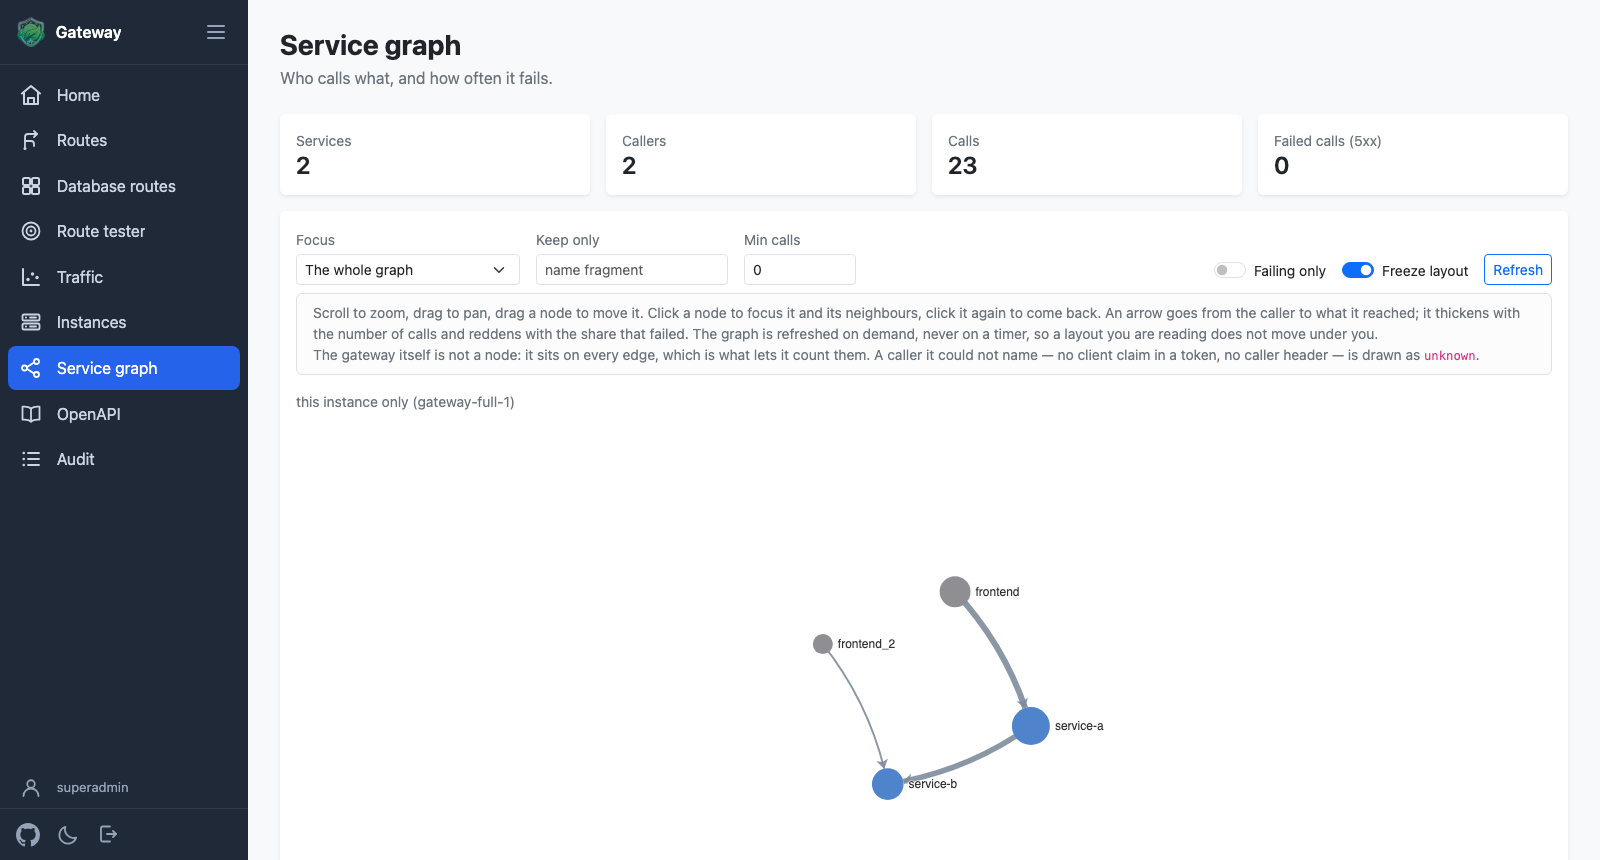
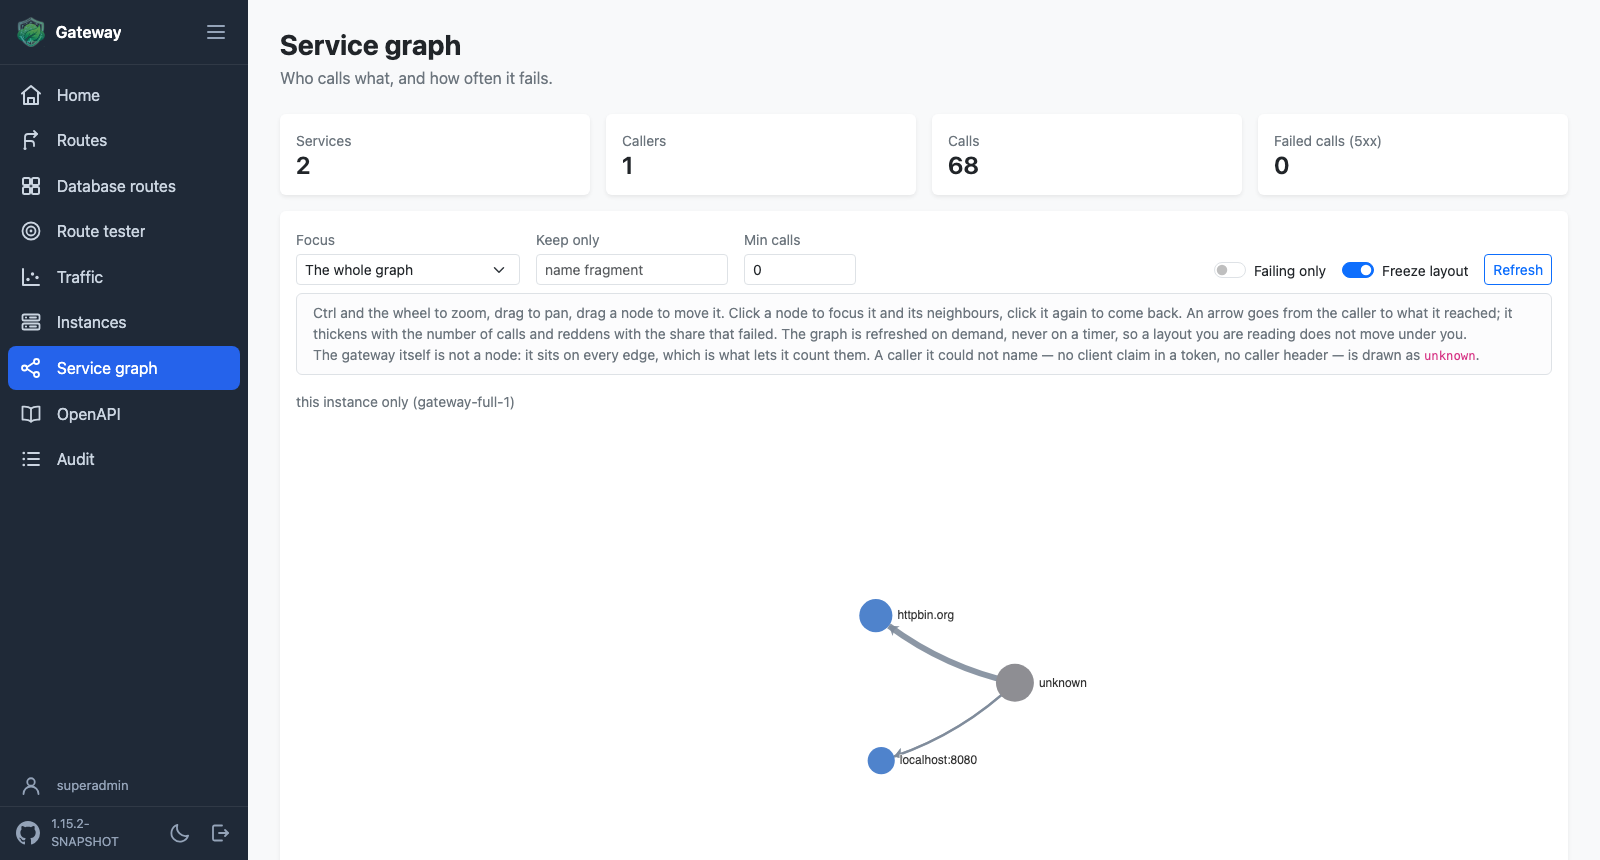
fix(ui): zoom the map and the graph on ctrl + wheel, not on the wheel alone
Both pictures are more than half a screen tall, so they sit under the cursor
for most of the page, and a wheel that zoomed them left the reader with a
page that would not scroll.

Binding the zoom to a modifier is not enough, and the option that reads like
it would does not do it: the roam controller of echarts calls preventDefault
as soon as the pointer is inside the coordinate system, before anything looks
at which modifier the zoom was bound to, so the wheel stayed swallowed and
merely stopped zooming. What takes the wheel out of its hands is the control
type — 'zoomLock' on the inside zoom of the traffic map, 'move' as the roam
of the service graph — under which no wheel handler is registered at all and
the drag that pans is kept. The zoom is dispatched from a wheel listener of
our own, anchored on the cursor for the map.

The legends, the reading guide of the graph and the READMEs say which key it
takes, and the screenshots of both views are re-captured.

diff --git a/spring-cloud-gateway-ui/src/main/resources/static/js/gateway-metrics.js b/spring-cloud-gateway-ui/src/main/resources/static/js/gateway-metrics.js
@@ -126,6 +126,7 @@
 	var bars = echarts.init(barsEl, theme);
 	var rows = [];
 	var drawn = [];
+	var extents = null;
 	var sortKey = 'count';
 	var sortDir = -1;
 	var pollTimer = null;
@@ -445,7 +446,7 @@
 
 		sel('gm-legend').textContent = 'Bubble size = ' + LABELS[sk]
 			+ ' · colour = error rate (green none, amber some, red heavy) · hover a bubble for '
-			+ 'details · scroll to zoom, drag to pan.' + scope();
+			+ 'details · ctrl + scroll to zoom, drag to pan.' + scope();
 
 		var xs = drawn.map(function (row) {
 			return value(row, xk);
@@ -459,6 +460,9 @@
 		var py = plot(ys, yLog);
 		var xb = bounds(px, xLog);
 		var yb = bounds(py, yLog);
+		// The wheel zooms around the cursor, which it can only place in a window once it
+		// knows what the axis spans.
+		extents = { x: xb, y: yb };
 		var guide = guides(px, py, xb, yb, config.quadrants);
 		var labelled = named(ranking());
 		var xAxis = axis(xk, xLog, xb);
@@ -473,12 +477,19 @@
 			grid: { left: 70, right: 58, top: 24, bottom: 78 },
 			xAxis: xAxis,
 			yAxis: axis(yk, yLog, yb),
-			// Wheel on the plot and a slider per axis: a corner of the cloud is read by
+			// Drag on the plot and a slider per axis: a corner of the cloud is read by
 			// zooming into it. 'none' keeps the points outside the window in the series,
 			// so the median cross and the quadrants stay where they were computed.
+			//
+			// 'zoomLock' is what takes the wheel out of the hands of echarts, and it is
+			// the only thing that does: bound to a modifier or not, its inside zoom
+			// consumes every wheel it is registered for before looking at the modifier,
+			// and a plot this tall would then trap the scroll of the page it sits in.
+			// Locked, the controller only registers the drag that pans; the wheel is read
+			// below instead.
 			dataZoom: [
-				{ type: 'inside', xAxisIndex: 0, filterMode: 'none' },
-				{ type: 'inside', yAxisIndex: 0, filterMode: 'none' },
+				{ type: 'inside', xAxisIndex: 0, filterMode: 'none', zoomLock: true },
+				{ type: 'inside', yAxisIndex: 0, filterMode: 'none', zoomLock: true },
 				{ type: 'slider', xAxisIndex: 0, filterMode: 'none', bottom: 10, height: 18 },
 				{
 					type: 'slider', yAxisIndex: 0, filterMode: 'none', right: 10, width: 18,
@@ -578,6 +589,37 @@
 
 	// The ranking the map cannot draw: the routes that carry the most of whatever the
 	// question is about, biggest first, with what the twenty of them add up to.
+	// Where the cursor sits on an axis, as the percentage a zoom window is expressed in.
+	function percent(value, extent) {
+		return 100 * (value - extent.min) / (extent.max - extent.min);
+	}
+
+	// The window a wheel notch leaves behind: the span scaled, anchored on the cursor so
+	// the bubble under it stays under it, and kept inside the axis.
+	function windowed(zoom, anchor, ratio, index) {
+		var span = Math.min(100, (zoom.end - zoom.start) * ratio);
+		var start = Math.max(0, Math.min(100 - span, anchor - (anchor - zoom.start) * ratio));
+		return { type: 'dataZoom', dataZoomIndex: index, start: start, end: start + span };
+	}
+
+	// Ctrl + wheel zooms the map; a wheel alone is left to the page it sits in. Ctrl is
+	// also what a browser zooms its own page with, hence the preventDefault.
+	function zoomOnCtrlWheel(event) {
+		if (!event.ctrlKey || !extents || !drawn.length) {
+			return;
+		}
+		event.preventDefault();
+		var box = chartEl.getBoundingClientRect();
+		var at = chart.convertFromPixel({ gridIndex: 0 }, [event.clientX - box.left, event.clientY - box.top]);
+		if (!at) {
+			return;
+		}
+		var ratio = event.deltaY < 0 ? 1 / 1.25 : 1.25;
+		var zooms = chart.getOption().dataZoom;
+		chart.dispatchAction(windowed(zooms[0], percent(at[0], extents.x), ratio, 0));
+		chart.dispatchAction(windowed(zooms[1], percent(at[1], extents.y), ratio, 1));
+	}
+
 	function renderBars() {
 		var rank = ranking();
 		var scored = drawn.map(function (row) {
@@ -707,6 +749,8 @@
 	['gm-preset', 'gm-x', 'gm-y', 'gm-size', 'gm-top', 'gm-scale'].forEach(function (id) {
 		sel(id).addEventListener('change', render);
 	});
+	// Not passive: a ctrl + wheel that zooms the map must not also zoom the browser.
+	chartEl.addEventListener('wheel', zoomOnCtrlWheel, { passive: false });
 	// On input rather than on change: the plot follows what is being typed.
 	sel('gm-filter').addEventListener('input', render);
 	// A render replaces the option rather than merging into it, which is what puts the axes

diff --git a/spring-cloud-gateway-ui/src/main/resources/static/js/gateway-service-graph.js b/spring-cloud-gateway-ui/src/main/resources/static/js/gateway-service-graph.js
@@ -133,8 +133,12 @@
 			},
 			series: [{
 				type: 'graph',
-				// Scroll to zoom, drag to pan. Nodes stay draggable either way.
-				roam: true,
+				// Drag to pan, ctrl and the wheel to zoom; nodes stay draggable either way.
+				// 'move' rather than true is what leaves the wheel to the page: a roam that
+				// zooms registers a wheel handler consuming every notch it is given, and a
+				// picture this tall would then trap the scroll of the page it sits in. The
+				// zoom is dispatched below instead.
+				roam: 'move',
 				draggable: true,
 				layout: frozen() && hasPositions(drawn) ? 'none' : 'force',
 				force: { repulsion: 320, edgeLength: [90, 220], gravity: 0.08 },
@@ -174,7 +178,8 @@
 		}, true);
 		sel('gg-legend').textContent = drawn.length + ' node' + (drawn.length > 1 ? 's' : '') + ', '
 			+ shown.length + ' edge' + (shown.length > 1 ? 's' : '')
-			+ ' — node size and arrow width are the number of calls, red is the share that failed.';
+			+ ' — node size and arrow width are the number of calls, red is the share that failed'
+			+ ' · ctrl + scroll to zoom, drag to pan.';
 	}
 
 	function hasPositions(drawn) {
@@ -335,6 +340,21 @@
 			renderTable();
 		});
 	});
+	// Ctrl + wheel zooms the picture; a wheel alone is left to the page it sits in. Ctrl is
+	// also what a browser zooms its own page with, hence the preventDefault.
+	chartEl.addEventListener('wheel', function (event) {
+		if (!event.ctrlKey) {
+			return;
+		}
+		event.preventDefault();
+		var box = chartEl.getBoundingClientRect();
+		chart.dispatchAction({
+			type: 'graphRoam', seriesIndex: 0,
+			zoom: event.deltaY < 0 ? 1.25 : 1 / 1.25,
+			originX: event.clientX - box.left,
+			originY: event.clientY - box.top
+		});
+	}, { passive: false });
 	window.addEventListener('resize', function () {
 		chart.resize();
 	});

diff --git a/spring-cloud-gateway-ui/src/main/resources/templates/dashboard/service-graph.html b/spring-cloud-gateway-ui/src/main/resources/templates/dashboard/service-graph.html
@@ -77,7 +77,7 @@
 				</div>
 
 				<div class="alert alert-light border py-2 px-3 small text-secondary mb-3">
-					Scroll to zoom, drag to pan, drag a node to move it. Click a node to focus it and its
+					Ctrl and the wheel to zoom, drag to pan, drag a node to move it. Click a node to focus it and its
 					neighbours, click it again to come back. An arrow goes from the caller to what it
 					reached; it thickens with the number of calls and reddens with the share that failed.
 					The graph is refreshed on demand, never on a timer, so a layout you are reading does

diff --git a/spring-cloud-gateway-ui/README.md b/spring-cloud-gateway-ui/README.md
@@ -234,7 +234,9 @@ discovered service, and they all pile up in the same corner. Three controls take
 | Show | caps the plot and the table to the busiest N routes by calls; Top 100 by default |
 | Scale | `Auto` turns an axis logarithmic as soon as its largest value is fifty times the median one, which is what un-stacks the cloud; `Linear` and `Logarithmic` force it either way |
 
-Only a dozen routes are named on the plot — the tooltip names any other one. Scroll to zoom, drag to pan, **Reset zoom** puts the axes back.
+Only a dozen routes are named on the plot — the tooltip names any other one. **Ctrl + scroll**
+zooms, drag pans, **Reset zoom** puts the axes back; a wheel without ctrl is left to the page,
+which is what keeps a plot this tall from trapping the scroll.
 The filter and the cap drive the plot and the table together; the tiles at the top stay on
 the whole gateway, and the line under the plot says so whenever the two differ.
 
@@ -310,8 +312,9 @@ route, read through the
 ![The service graph view](doc/service-graph-light.png)
 
 An arrow goes from the caller to what it reached: it thickens with the number of calls and
-reddens with the share that failed, and node size is the calls the node took part in. Scroll
-to zoom, drag to pan, drag a node to move it.
+reddens with the share that failed, and node size is the calls the node took part in. **Ctrl +
+scroll** zooms, drag pans, a node is dragged to move it; a wheel without ctrl is left to the
+page, which is what keeps a picture this tall from trapping the scroll.
 
 Four ways to narrow what is drawn, all applied in the browser on the payload already fetched:
 
